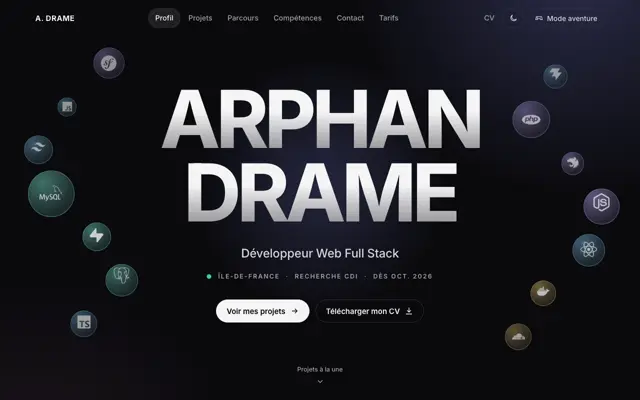
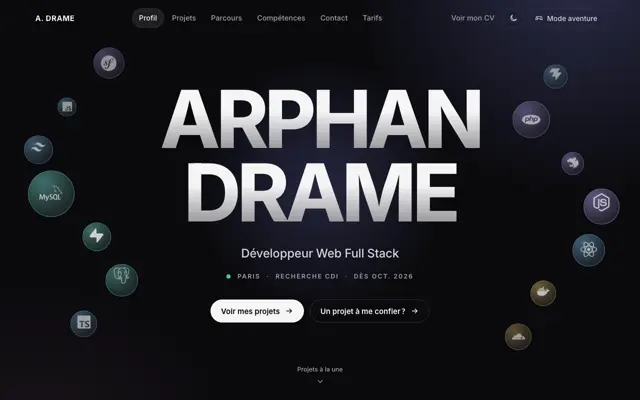
fix

diff --git a/classique.html b/classique.html
@@ -5,7 +5,7 @@
   <meta charset="UTF-8">
   <meta name="viewport" content="width=device-width, initial-scale=1.0, viewport-fit=cover">
   <title>Arphan Drame, Développeur Web Full Stack · Portfolio</title>
-  <meta name="description" content="Portfolio d'Arphan Drame, Développeur Web Full Stack en Île-de-France. En recherche de CDI (dès oct. 2026). Projets professionnels (DevPhantom), personnels et scolaires, parcours, compétences et contact.">
+  <meta name="description" content="Portfolio d'Arphan Drame, Développeur Web Full Stack à Paris. En recherche de CDI (dès oct. 2026). Projets professionnels (DevPhantom), personnels et scolaires, parcours, compétences et contact.">
   <link rel="canonical" href="https://portfolio-3kx.pages.dev/classique">
   <meta property="og:type" content="profile">
   <meta property="og:locale" content="fr_FR">
@@ -91,13 +91,13 @@
     "@id": "https://portfolio-3kx.pages.dev/#person",
     "name": "Arphan Drame",
     "jobTitle": "Développeur Web Full Stack",
-    "description": "Développeur Web Full Stack en Île-de-France. En recherche de CDI (dès oct. 2026)",
+    "description": "Développeur Web Full Stack à Paris. En recherche de CDI (dès oct. 2026)",
     "url": "https://portfolio-3kx.pages.dev/",
     "image": "https://portfolio-3kx.pages.dev/assets/img/og.jpg",
     "email": "mailto:arphandrame0@gmail.com",
     "address": {
       "@type": "PostalAddress",
-      "addressRegion": "Île-de-France",
+      "addressLocality": "Paris",
       "addressCountry": "FR"
     },
     "sameAs": [
@@ -198,10 +198,10 @@
         <a href="classique/competences.html" data-page-link="competences"><span>Compétences</span></a>
         <a href="classique/contact.html" data-page-link="contact"><span>Contact</span></a>
         <a href="tarifs.html"><span>Tarifs</span></a>
-        <a class="nav__cv" href="assets/CV.pdf" target="_blank" rel="noopener"><span>CV (PDF)</span></a>
+        <a class="nav__cv" href="assets/CV.pdf" target="_blank" rel="noopener"><span>Voir mon CV</span></a>
       </nav>
       <div class="topbar__actions">
-        <a class="topbar__cv" href="assets/CV.pdf" target="_blank" rel="noopener">CV</a>
+        <a class="topbar__cv" href="assets/CV.pdf" target="_blank" rel="noopener">Voir mon CV</a>
         <button type="button" class="icon-btn" data-theme-toggle aria-pressed="false" aria-label="Changer d'ambiance">
           <svg class="ico ico--sun" aria-hidden="true" focusable="false"><use href="#i-sun"/></svg>
           <svg class="ico ico--moon" aria-hidden="true" focusable="false"><use href="#i-moon"/></svg>
@@ -224,10 +224,10 @@
       <div class="pf-hero__inner">
         <h1 class="pf-name" id="profil-title"><span class="pf-name__w"><span>Arphan</span></span> <span class="pf-name__w"><span>Drame</span></span></h1>
         <p class="pf-role">Développeur Web Full Stack</p>
-        <p class="pf-ctx"><span class="pulse" aria-hidden="true"></span><span class="pf-ctx__i" data-seeking>Île-de-France</span><span class="pf-ctx__i" data-seeking>Recherche CDI</span><span class="pf-ctx__i" data-seeking>dès oct. 2026</span></p>
+        <p class="pf-ctx"><span class="pulse" aria-hidden="true"></span><span class="pf-ctx__i" data-seeking>Paris</span><span class="pf-ctx__i" data-seeking>Recherche CDI</span><span class="pf-ctx__i" data-seeking>dès oct. 2026</span></p>
         <div class="pf-cta">
           <a class="btn btn--primary" href="classique/projets.html">Voir mes projets<svg class="ico" aria-hidden="true" focusable="false"><use href="#i-arrow"/></svg></a>
-          <a class="btn btn--ghost" href="assets/CV.pdf" target="_blank" rel="noopener">Télécharger mon CV<svg class="ico" aria-hidden="true" focusable="false"><use href="#i-download"/></svg></a>
+          <a class="btn btn--ghost" href="tarifs.html">Un projet à me confier ?<svg class="ico" aria-hidden="true" focusable="false"><use href="#i-arrow"/></svg></a>
         </div>
       </div>
       <a class="pf-scroll" href="#a-la-une"><span>Projets à la une</span><svg class="ico" aria-hidden="true" focusable="false"><use href="#i-chevron"/></svg></a>
@@ -320,7 +320,7 @@
   </nav>
   <footer class="footer">
     <div class="wrap footer__inner">
-      <p>Arphan Drame · Développeur Web Full Stack · Île-de-France</p>
+      <p>Arphan Drame · Développeur Web Full Stack · Paris</p>
       <nav class="footer__links" aria-label="Autres pages">
         <a href="index.html">Choisir un mode</a>
         <a href="aventure.html#ville" data-switch-adventure>Mode aventure</a>

diff --git a/index.html b/index.html
@@ -3,14 +3,14 @@
 <head>
   <meta charset="UTF-8">
   <meta name="viewport" content="width=device-width, initial-scale=1.0, viewport-fit=cover">
-  <title>Arphan Drame, Développeur Web Full Stack · Île-de-France</title>
-  <meta name="description" content="Portfolio d'Arphan DRAME, Développeur Web Full Stack en Île-de-France. En recherche de CDI (dès sept. 2026). Découvrez mon parcours en mode classique, ou explorez mon univers en mode aventure.">
+  <title>Arphan Drame, Développeur Web Full Stack · Paris</title>
+  <meta name="description" content="Portfolio d'Arphan DRAME, Développeur Web Full Stack à Paris. En recherche de CDI. Découvrez mon parcours en mode classique, ou explorez mon univers en mode aventure.">
   <link rel="canonical" href="https://portfolio-3kx.pages.dev/">
   <meta property="og:type" content="website">
   <meta property="og:locale" content="fr_FR">
   <meta property="og:site_name" content="Arphan Drame · Portfolio">
   <meta property="og:title" content="Arphan Drame · Développeur Web Full Stack">
-  <meta property="og:description" content="En recherche de CDI (dès sept. 2026). Deux façons de découvrir mon portfolio : classique ou aventure.">
+  <meta property="og:description" content="En recherche de CDI. Deux façons de découvrir mon portfolio : classique ou aventure.">
   <meta property="og:url" content="https://portfolio-3kx.pages.dev/">
   <meta property="og:image" content="https://portfolio-3kx.pages.dev/assets/img/og.jpg">
   <meta property="og:image:width" content="1200">
@@ -49,13 +49,13 @@
       "@id": "https://portfolio-3kx.pages.dev/#person",
       "name": "Arphan Drame",
       "jobTitle": "Développeur Web Full Stack",
-      "description": "Développeur Web Full Stack en Île-de-France. En recherche de CDI (dès oct. 2026)",
+      "description": "Développeur Web Full Stack à Paris. En recherche de CDI (dès oct. 2026)",
       "url": "https://portfolio-3kx.pages.dev/",
       "image": "https://portfolio-3kx.pages.dev/assets/img/og.jpg",
       "email": "mailto:arphandrame0@gmail.com",
       "address": {
         "@type": "PostalAddress",
-        "addressRegion": "Île-de-France",
+        "addressLocality": "Paris",
         "addressCountry": "FR"
       },
       "sameAs": [
@@ -142,7 +142,7 @@
   <header class="sel-top">
     <span class="sel-brand">A. DRAME</span>
     <nav class="sel-quick" aria-label="Accès direct">
-      <a href="assets/CV.pdf" target="_blank" rel="noopener">CV</a>
+      <a href="assets/CV.pdf" target="_blank" rel="noopener">Voir mon CV</a>
       <button type="button" data-contact-cta data-contact-subject="Prise de contact · Portfolio">Contact</button>
       <button type="button" class="icon-btn" data-theme-toggle aria-pressed="false" aria-label="Changer d'ambiance">
         <svg class="ico ico--sun" aria-hidden="true"><use href="#i-sun"/></svg>
@@ -155,7 +155,7 @@
     <div class="sel-id"><!-- build:identity -->
         <p class="pill sel-status"><span class="pulse" aria-hidden="true"></span><span data-seeking>En recherche de CDI (dès oct. 2026)</span></p>
         <h1 class="sel-name">Arphan Drame</h1>
-        <p class="sel-title">Développeur Web Full Stack <span>· Île-de-France</span></p>
+        <p class="sel-title">Développeur Web Full Stack <span>· Paris</span></p>
         <!-- /build:identity --></div>
 
     <section class="sel-choice" aria-labelledby="sel-q">

diff --git a/classique/contact.html b/classique/contact.html
@@ -5,13 +5,13 @@
   <meta charset="UTF-8">
   <meta name="viewport" content="width=device-width, initial-scale=1.0, viewport-fit=cover">
   <title>Contact · Arphan Drame, Développeur Web Full Stack</title>
-  <meta name="description" content="Contacter Arphan Drame, Développeur Web Full Stack en Île-de-France. En recherche de CDI (dès oct. 2026). E-mail, téléphone, LinkedIn, GitHub, CV et formulaire de contact.">
+  <meta name="description" content="Contacter Arphan Drame, Développeur Web Full Stack à Paris. En recherche de CDI (dès oct. 2026). E-mail, téléphone, LinkedIn, GitHub, CV et formulaire de contact.">
   <link rel="canonical" href="https://portfolio-3kx.pages.dev/classique/contact">
   <meta property="og:type" content="website">
   <meta property="og:locale" content="fr_FR">
   <meta property="og:site_name" content="Arphan Drame · Portfolio">
   <meta property="og:title" content="Contact · Arphan Drame, Développeur Web Full Stack">
-  <meta property="og:description" content="Contacter Arphan Drame, Développeur Web Full Stack en Île-de-France. En recherche de CDI (dès oct. 2026). E-mail, téléphone, LinkedIn, GitHub, CV et formulaire de contact.">
+  <meta property="og:description" content="Contacter Arphan Drame, Développeur Web Full Stack à Paris. En recherche de CDI (dès oct. 2026). E-mail, téléphone, LinkedIn, GitHub, CV et formulaire de contact.">
   <meta property="og:url" content="https://portfolio-3kx.pages.dev/classique/contact">
   <meta property="og:image" content="https://portfolio-3kx.pages.dev/assets/img/og.jpg">
   <meta property="og:image:width" content="1200">
@@ -125,10 +125,10 @@
         <a href="competences.html" data-page-link="competences"><span>Compétences</span></a>
         <a href="contact.html" aria-current="page" data-page-link="contact"><span>Contact</span><i class="nav__ink" aria-hidden="true"></i></a>
         <a href="../tarifs.html"><span>Tarifs</span></a>
-        <a class="nav__cv" href="../assets/CV.pdf" target="_blank" rel="noopener"><span>CV (PDF)</span></a>
+        <a class="nav__cv" href="../assets/CV.pdf" target="_blank" rel="noopener"><span>Voir mon CV</span></a>
       </nav>
       <div class="topbar__actions">
-        <a class="topbar__cv" href="../assets/CV.pdf" target="_blank" rel="noopener">CV</a>
+        <a class="topbar__cv" href="../assets/CV.pdf" target="_blank" rel="noopener">Voir mon CV</a>
         <button type="button" class="icon-btn" data-theme-toggle aria-pressed="false" aria-label="Changer d'ambiance">
           <svg class="ico ico--sun" aria-hidden="true" focusable="false"><use href="#i-sun"/></svg>
           <svg class="ico ico--moon" aria-hidden="true" focusable="false"><use href="#i-moon"/></svg>
@@ -154,7 +154,7 @@
       </div>
       <div class="ct-stage">
         <div class="ct-hero">
-          <p class="ct-ctx"><span class="pulse" aria-hidden="true"></span><span data-seeking>En recherche de CDI (dès oct. 2026)</span><span>Île-de-France</span></p>
+          <p class="ct-ctx"><span class="pulse" aria-hidden="true"></span><span data-seeking>En recherche de CDI (dès oct. 2026)</span><span>Paris</span></p>
           <h1 class="ct-title" id="contact-title">Travaillons <em>ensemble.</em></h1>
         </div>
         <ul class="ct-orbs" aria-label="Moyens de contact">

diff --git a/classique/parcours.html b/classique/parcours.html
@@ -121,10 +121,10 @@
         <a href="competences.html" data-page-link="competences"><span>Compétences</span></a>
         <a href="contact.html" data-page-link="contact"><span>Contact</span></a>
         <a href="../tarifs.html"><span>Tarifs</span></a>
-        <a class="nav__cv" href="../assets/CV.pdf" target="_blank" rel="noopener"><span>CV (PDF)</span></a>
+        <a class="nav__cv" href="../assets/CV.pdf" target="_blank" rel="noopener"><span>Voir mon CV</span></a>
       </nav>
       <div class="topbar__actions">
-        <a class="topbar__cv" href="../assets/CV.pdf" target="_blank" rel="noopener">CV</a>
+        <a class="topbar__cv" href="../assets/CV.pdf" target="_blank" rel="noopener">Voir mon CV</a>
         <button type="button" class="icon-btn" data-theme-toggle aria-pressed="false" aria-label="Changer d'ambiance">
           <svg class="ico ico--sun" aria-hidden="true" focusable="false"><use href="#i-sun"/></svg>
           <svg class="ico ico--moon" aria-hidden="true" focusable="false"><use href="#i-moon"/></svg>
@@ -345,7 +345,7 @@
             <header class="tl-panel__head">
               <p class="tl-panel__k"><span>Et ensuite</span>2026</p>
               <h2 class="tl-panel__t" id="tl-next-t" data-seeking>En recherche de CDI (dès oct. 2026)</h2>
-              <p class="tl-panel__place">Développeur Web Full Stack · Île-de-France</p>
+              <p class="tl-panel__place">Développeur Web Full Stack · Paris</p>
               <p class="tl-panel__lead">Je peux m'adapter à un environnement technique existant, comprendre rapidement un projet et apprendre les outils nécessaires pour répondre au besoin.</p>
             </header>
             <div class="tl-panel__body">

diff --git a/classique/competences.html b/classique/competences.html
@@ -162,10 +162,10 @@
         <a href="competences.html" aria-current="page" data-page-link="competences"><span>Compétences</span><i class="nav__ink" aria-hidden="true"></i></a>
         <a href="contact.html" data-page-link="contact"><span>Contact</span></a>
         <a href="../tarifs.html"><span>Tarifs</span></a>
-        <a class="nav__cv" href="../assets/CV.pdf" target="_blank" rel="noopener"><span>CV (PDF)</span></a>
+        <a class="nav__cv" href="../assets/CV.pdf" target="_blank" rel="noopener"><span>Voir mon CV</span></a>
       </nav>
       <div class="topbar__actions">
-        <a class="topbar__cv" href="../assets/CV.pdf" target="_blank" rel="noopener">CV</a>
+        <a class="topbar__cv" href="../assets/CV.pdf" target="_blank" rel="noopener">Voir mon CV</a>
         <button type="button" class="icon-btn" data-theme-toggle aria-pressed="false" aria-label="Changer d'ambiance">
           <svg class="ico ico--sun" aria-hidden="true" focusable="false"><use href="#i-sun"/></svg>
           <svg class="ico ico--moon" aria-hidden="true" focusable="false"><use href="#i-moon"/></svg>

diff --git a/tarifs.html b/tarifs.html
@@ -66,10 +66,10 @@
         <a href="classique/competences.html"><span>Compétences</span></a>
         <a href="classique/contact.html"><span>Contact</span></a>
         <a href="tarifs.html" aria-current="page"><span>Tarifs</span><i class="nav__ink" aria-hidden="true"></i></a>
-        <a class="nav__cv" href="assets/CV.pdf" target="_blank" rel="noopener"><span>CV (PDF)</span></a>
+        <a class="nav__cv" href="assets/CV.pdf" target="_blank" rel="noopener"><span>Voir mon CV</span></a>
       </nav>
       <div class="topbar__actions">
-        <a class="topbar__cv" href="assets/CV.pdf" target="_blank" rel="noopener">CV</a>
+        <a class="topbar__cv" href="assets/CV.pdf" target="_blank" rel="noopener">Voir mon CV</a>
         <button type="button" class="icon-btn" data-theme-toggle aria-pressed="false" aria-label="Changer d'ambiance">
           <svg class="ico ico--sun" aria-hidden="true" focusable="false"><use href="#i-sun"/></svg>
           <svg class="ico ico--moon" aria-hidden="true" focusable="false"><use href="#i-moon"/></svg>

diff --git a/classique/projets.html b/classique/projets.html
@@ -290,10 +290,10 @@
         <a href="competences.html" data-page-link="competences"><span>Compétences</span></a>
         <a href="contact.html" data-page-link="contact"><span>Contact</span></a>
         <a href="../tarifs.html"><span>Tarifs</span></a>
-        <a class="nav__cv" href="../assets/CV.pdf" target="_blank" rel="noopener"><span>CV (PDF)</span></a>
+        <a class="nav__cv" href="../assets/CV.pdf" target="_blank" rel="noopener"><span>Voir mon CV</span></a>
       </nav>
       <div class="topbar__actions">
-        <a class="topbar__cv" href="../assets/CV.pdf" target="_blank" rel="noopener">CV</a>
+        <a class="topbar__cv" href="../assets/CV.pdf" target="_blank" rel="noopener">Voir mon CV</a>
         <button type="button" class="icon-btn" data-theme-toggle aria-pressed="false" aria-label="Changer d'ambiance">
           <svg class="ico ico--sun" aria-hidden="true" focusable="false"><use href="#i-sun"/></svg>
           <svg class="ico ico--moon" aria-hidden="true" focusable="false"><use href="#i-moon"/></svg>

diff --git a/aventure.html b/aventure.html
@@ -4,7 +4,7 @@
   <meta charset="UTF-8">
   <meta name="viewport" content="width=device-width, initial-scale=1.0, viewport-fit=cover">
   <title>Mode aventure · Arphan Drame, Développeur Web Full Stack</title>
-  <meta name="description" content="Portfolio interactif d'Arphan DRAME, Développeur Full Stack Île-de-France. Explorez la ville : chaque maison est une section du portfolio.">
+  <meta name="description" content="Portfolio interactif d'Arphan DRAME, Développeur Full Stack à Paris. Explorez la ville : chaque maison est une section du portfolio.">
   <link rel="canonical" href="https://portfolio-3kx.pages.dev/aventure">
   <meta property="og:type" content="website">
   <meta property="og:locale" content="fr_FR">

diff --git a/scripts/og.html b/scripts/og.html
@@ -37,7 +37,7 @@
     <p class="pill" style="margin:0"><i></i><span data-seeking>En recherche de CDI (dès sept. 2026)</span></p>
     <h1>Arphan Drame</h1>
     <p class="job">Développeur Web Full Stack</p>
-    <p class="loc">Frontend &amp; Backend · Île-de-France</p>
+    <p class="loc">Frontend &amp; Backend · Paris</p>
   </div>
   <script src="../js/seeking.js"></script>
 </body>

diff --git a/js/museum.js b/js/museum.js
@@ -41,7 +41,7 @@ const SECTIONS = {
     bio: {
       name: 'Arphan DRAME',
       title: 'Développeur Web Full Stack',
-      location: 'Île-de-France',
+      location: 'Paris',
       availability: 'Alternance chez DevPhantom',
       // Ce que je recherche, information n°1 pour un recruteur (mode classique : hero).
       seeking: seekingNow(),
